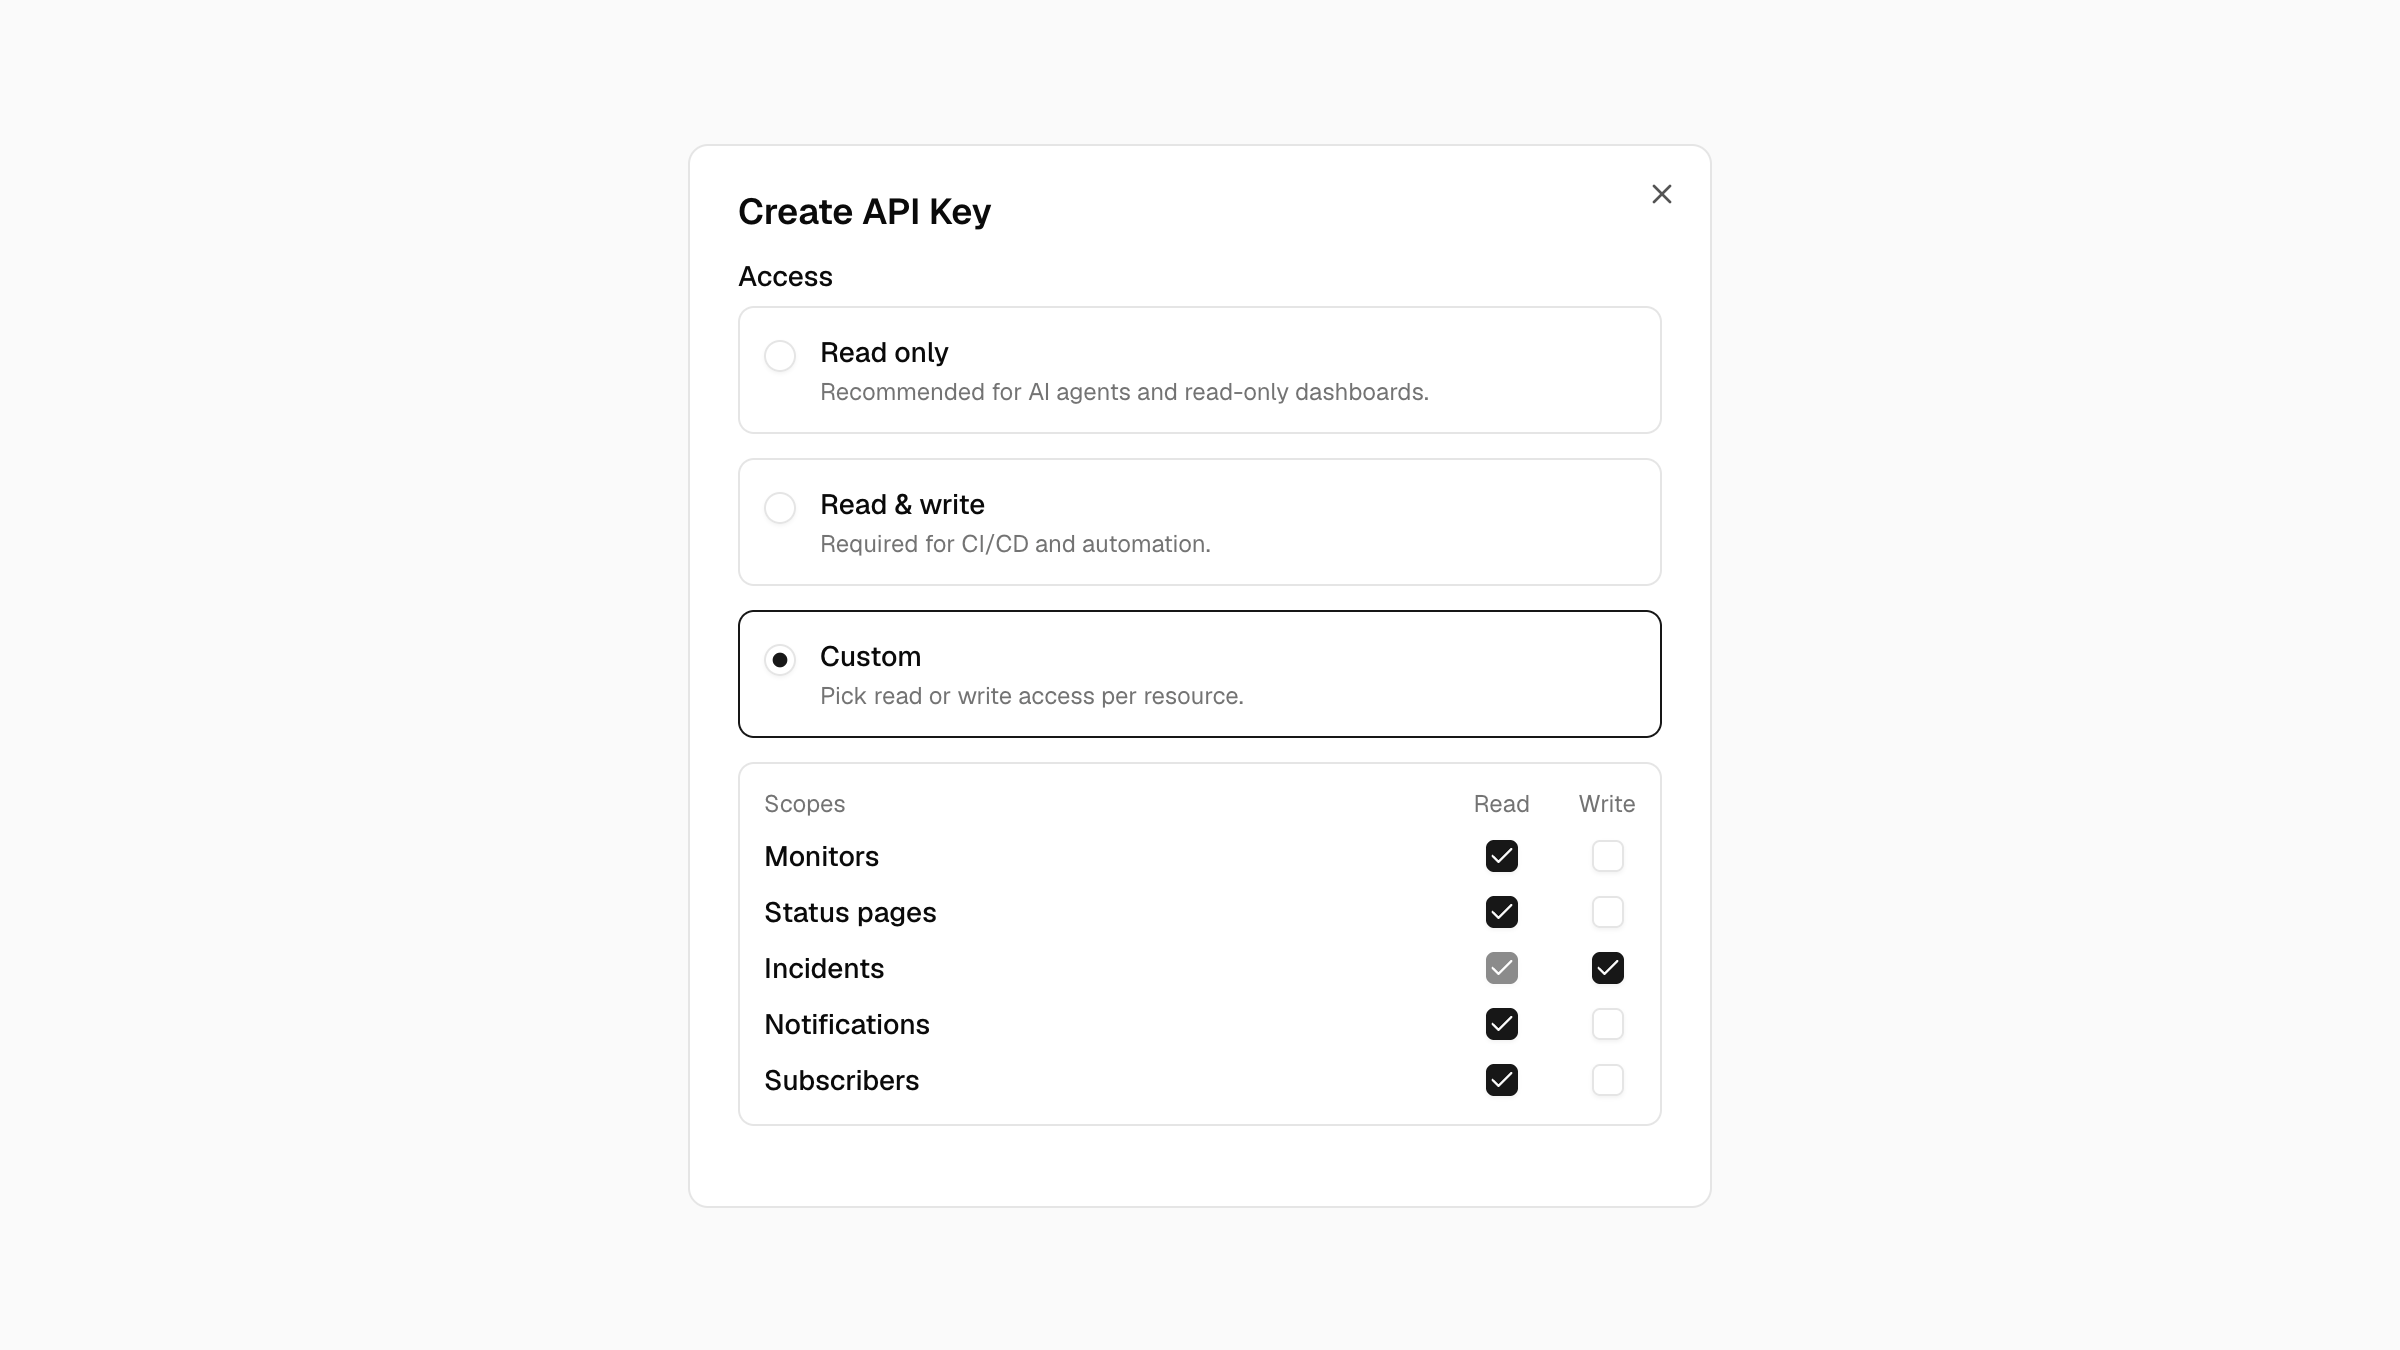
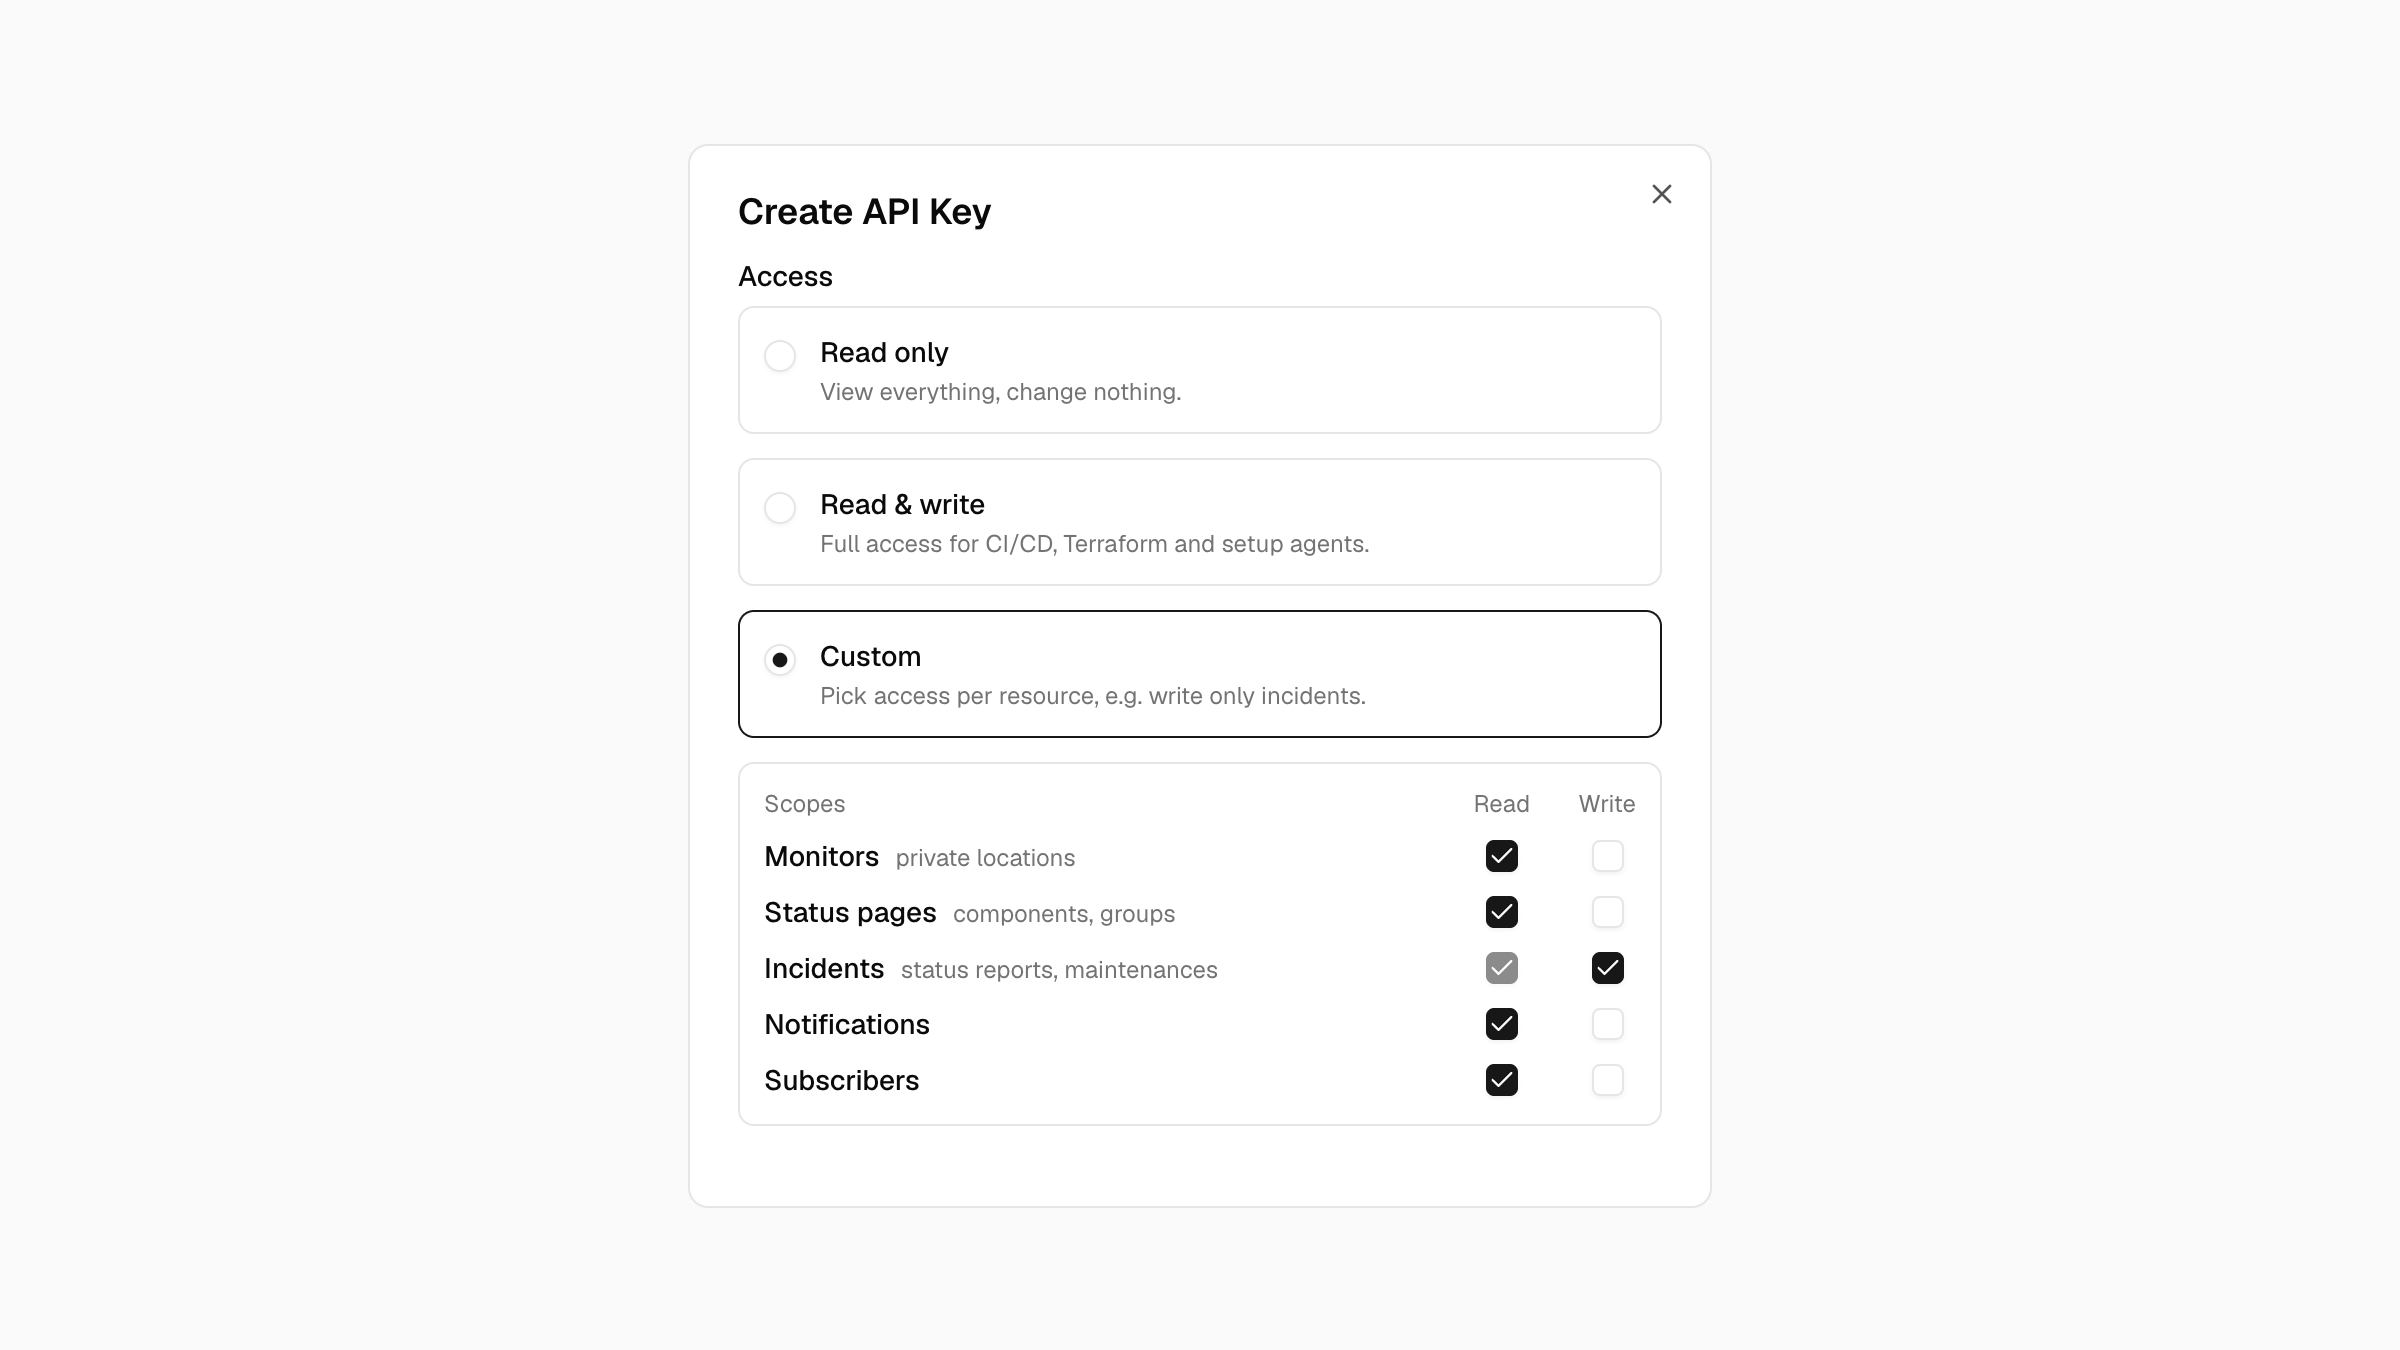
feat: clarify api key access copy and add scope group hints

diff --git a/apps/dashboard/src/components/forms/api-scopes/picker.tsx b/apps/dashboard/src/components/forms/api-scopes/picker.tsx
@@ -15,7 +15,13 @@ import {
 import { cn } from "@openstatus/ui/lib/utils";
 import { useId, useState } from "react";
 
-import { coveredBy, expandScopes, groupLabels, matchPreset } from "./label";
+import {
+  coveredBy,
+  expandScopes,
+  groupHints,
+  groupLabels,
+  matchPreset,
+} from "./label";
 
 export interface ScopePresetOption {
   id: ScopePreset;
@@ -96,7 +102,7 @@ export function ScopePicker({
           <div className="space-y-0.5">
             <div className="text-sm font-medium">Custom</div>
             <div className="text-muted-foreground text-xs">
-              Pick read or write access per resource.
+              Pick access per resource, e.g. write only incidents.
             </div>
           </div>
         </label>
@@ -143,6 +149,11 @@ function ScopeRow({
     <>
       <label htmlFor={`${id}-read`} className="text-sm font-medium">
         {groupLabels[group]}
+        {groupHints[group] ? (
+          <span className="text-muted-foreground ml-2 text-xs font-normal">
+            {groupHints[group]}
+          </span>
+        ) : null}
       </label>
       <Checkbox
         id={`${id}-read`}

diff --git a/apps/dashboard/src/components/forms/api-scopes/label.ts b/apps/dashboard/src/components/forms/api-scopes/label.ts
@@ -20,6 +20,13 @@ export const groupLabels = {
   subscribers: "Subscribers",
 } as const satisfies Record<ScopeGroup, string>;
 
+// Only where the label hides what the group covers.
+export const groupHints: Partial<Record<ScopeGroup, string>> = {
+  monitors: "private locations",
+  pages: "components, groups",
+  incidents: "status reports, maintenances",
+};
+
 export function sameScopes(
   a: readonly string[],
   b: readonly string[],

diff --git a/apps/dashboard/src/components/forms/api-key/form.tsx b/apps/dashboard/src/components/forms/api-key/form.tsx
@@ -36,12 +36,12 @@ const presets: ScopePresetOption[] = [
   {
     id: "read",
     label: "Read only",
-    description: "Recommended for AI agents and read-only dashboards.",
+    description: "View everything, change nothing.",
   },
   {
     id: "write",
     label: "Read & write",
-    description: "Required for CI/CD and automation.",
+    description: "Full access for CI/CD, Terraform and setup agents.",
   },
 ];
 
